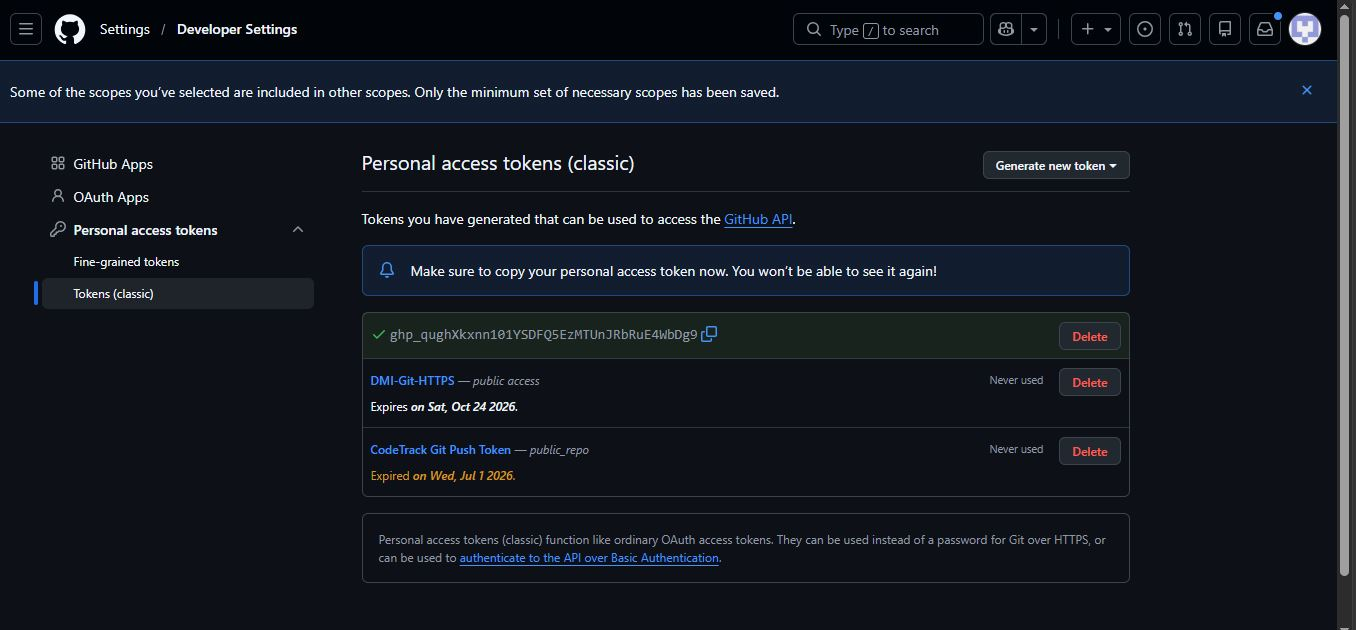
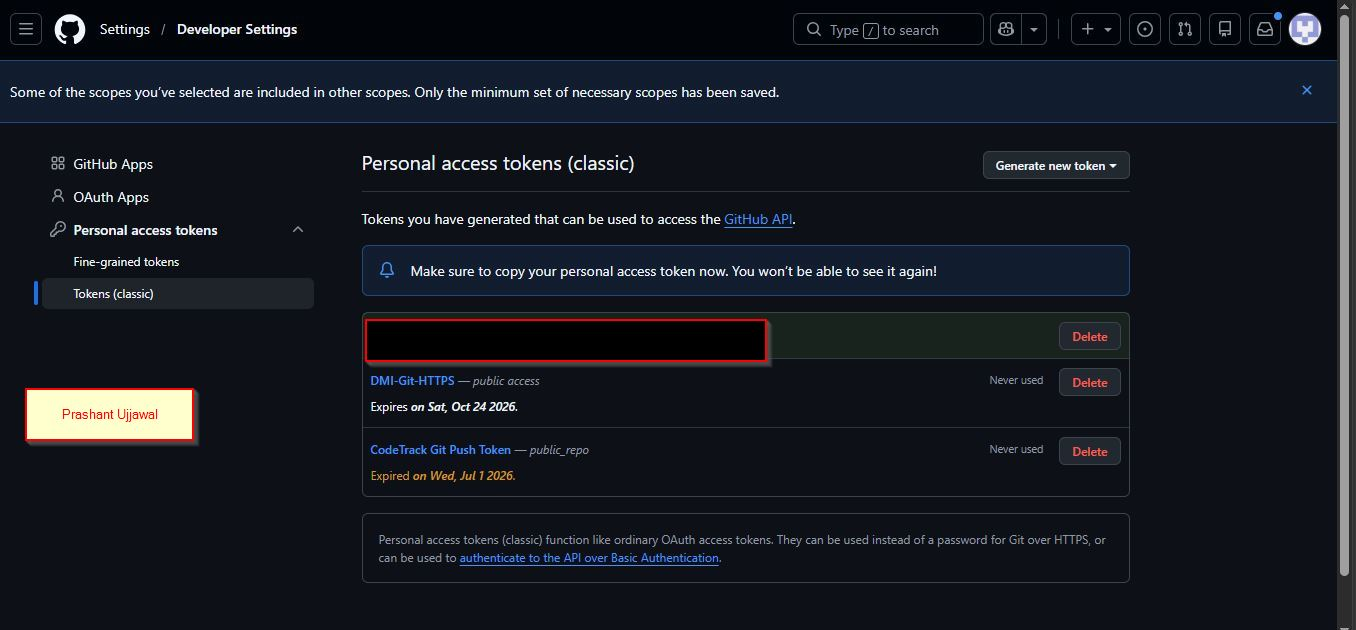
week-02-agentic-ai assignment completed

Changed region(s): [[0.2478, 0.4825, 0.5885, 0.6032], [0.0, 0.6032, 0.1549, 0.7238]]

diff --git a/week-02-agentic-ai/assignment-04-subagents.md b/week-02-agentic-ai/assignment-04-subagents.md
@@ -20,7 +20,7 @@ Create the `.claude/agents/` directory and add all required agent files.
 
 #### Screenshot 1 — VS Code sidebar showing `.claude/agents/` with all 3 files
 
-Add your screenshot here.
+![screenshot4](screenshots/ss4.1.JPG)
 
 ---
 
@@ -54,13 +54,13 @@ Add your answer here...
 
 #### Screenshot 2 — `security-auditor.md` frontmatter showing model and tools configuration
 
-Add your screenshot here.
+![screenshot4](screenshots/ss4.2.JPG)
 
 ---
 
 #### Screenshot 3 — `cost-optimizer.md` frontmatter showing the model and tools configuration
 
-Add your screenshot here.
+![screenshot4](screenshots/ss4.3.JPG)
 
 ---
 
@@ -74,13 +74,13 @@ Trigger the security auditor agent and analyze the generated security report for
 
 #### Screenshot 4 — The delegation message showing Claude launched the security-auditor
 
-Add your screenshot here.
+![screenshot4](screenshots/ss4.4.JPG)
 
 ---
 
 #### Screenshot 5 — Security audit report output
 
-Add your screenshot here.
+![screenshot4](screenshots/ss4.4.JPG)
 
 ---
 
@@ -94,7 +94,7 @@ Trigger the cost optimizer agent and review the generated cost optimization repo
 
 #### Screenshot 6 — The full cost optimization report
 
-Add your screenshot here.
+![screenshot4](screenshots/ss4.5.JPG)
 
 ---
 
@@ -110,22 +110,22 @@ Add your screenshot here.
 
 Paste your forked repository URL here:
 
-`Add your URL here`
+https://github.com/prashantujjawal-wq/Ultimate-Agentic-DevOps-with-Claude-Code
 
 ---
 
 # Completion Checklist
 
-- [ ] `.claude/agents/` folder contains all 3 agent files
-- [ ] Screenshot 2 shows correct `security-auditor.md` configuration
-- [ ] Screenshot 3 shows correct `cost-optimizer.md` configuration
-- [ ] All 3 written answers completed 
-- [ ] Security auditor executed successfully
-- [ ] Cost optimizer executed successfully
-- [ ] Security report is visible with findings
-- [ ] Cost report is visible with recommendations
-- [ ] All required screenshots added
-- [ ] GitHub repo updated with agents
+- [x] `.claude/agents/` folder contains all 3 agent files
+- [x] Screenshot 2 shows correct `security-auditor.md` configuration
+- [x] Screenshot 3 shows correct `cost-optimizer.md` configuration
+- [x] All 3 written answers completed 
+- [x] Security auditor executed successfully
+- [x] Cost optimizer executed successfully
+- [x] Security report is visible with findings
+- [x] Cost report is visible with recommendations
+- [x] All required screenshots added
+- [x] GitHub repo updated with agents
 
 ---
 

diff --git a/week-02-agentic-ai/assignment-05-mcp.md b/week-02-agentic-ai/assignment-05-mcp.md
@@ -20,7 +20,7 @@ Generate a GitHub Personal Access Token (PAT) that will be used for MCP authenti
 
 #### Screenshot 1 — GitHub token creation page showing the selected scopes (`repo`, `read:user`) — token value must NOT be visible
 
-Add your screenshot here.
+![screenshot4](screenshots/ss5.1.JPG)
 
 ---
 
@@ -34,7 +34,7 @@ Create and configure the `.mcp.json` file to define the GitHub MCP server.
 
 #### Screenshot 2 — `.mcp.json` open in VS Code showing the full configuration
 
-Add your screenshot here.
+![screenshot4](screenshots/ss5.2.JPG)
 
 ---
 
@@ -48,7 +48,7 @@ Store your GitHub token securely in `.claude/settings.local.json` and ensure it 
 
 #### Screenshot 3 — `settings.local.json` open in VS Code showing the `env` section — **blur or cover the actual GitHub token value**
 
-Add your screenshot here.
+![screenshot4](screenshots/ss5.3.JPG)
 
 ---
 
@@ -62,7 +62,7 @@ Confirm that the GitHub MCP server is successfully connected inside Claude Code.
 
 #### Screenshot 4 — `/mcp` output showing `github: connected`
 
-Add your screenshot here.
+![screenshot4](screenshots/ss5.4.JPG)
 
 ---
 
@@ -76,7 +76,7 @@ Verify MCP functionality by retrieving real-time data from your GitHub account u
 
 #### Screenshot 5 — Claude's response showing the GitHub MCP tool call and the retrieved README.md content.
 
-Add your screenshot here.
+![screenshot4](screenshots/ss5.5.JPG)
 
 ---
 
@@ -94,7 +94,7 @@ Add your screenshot here.
 
 Paste your forked repository URL here:
 
-`Add your URL here`
+https://github.com/yashrawat2362/devops-micro-internship-pravinmishra
 
 ---
 

diff --git a/week-02-agentic-ai/assignment-03-skills.md b/week-02-agentic-ai/assignment-03-skills.md
@@ -59,7 +59,7 @@ Execute the `/scaffold-terraform` skill to generate a full Terraform infrastruct
 
 #### Screenshot 5 — VS Code sidebar showing the `terraform/` folder with all generated files inside
 
-![screenshot4](screenshots/ss3.2.png)
+![screenshot4](screenshots/ss3.2.JPG)
 
 ---
 
